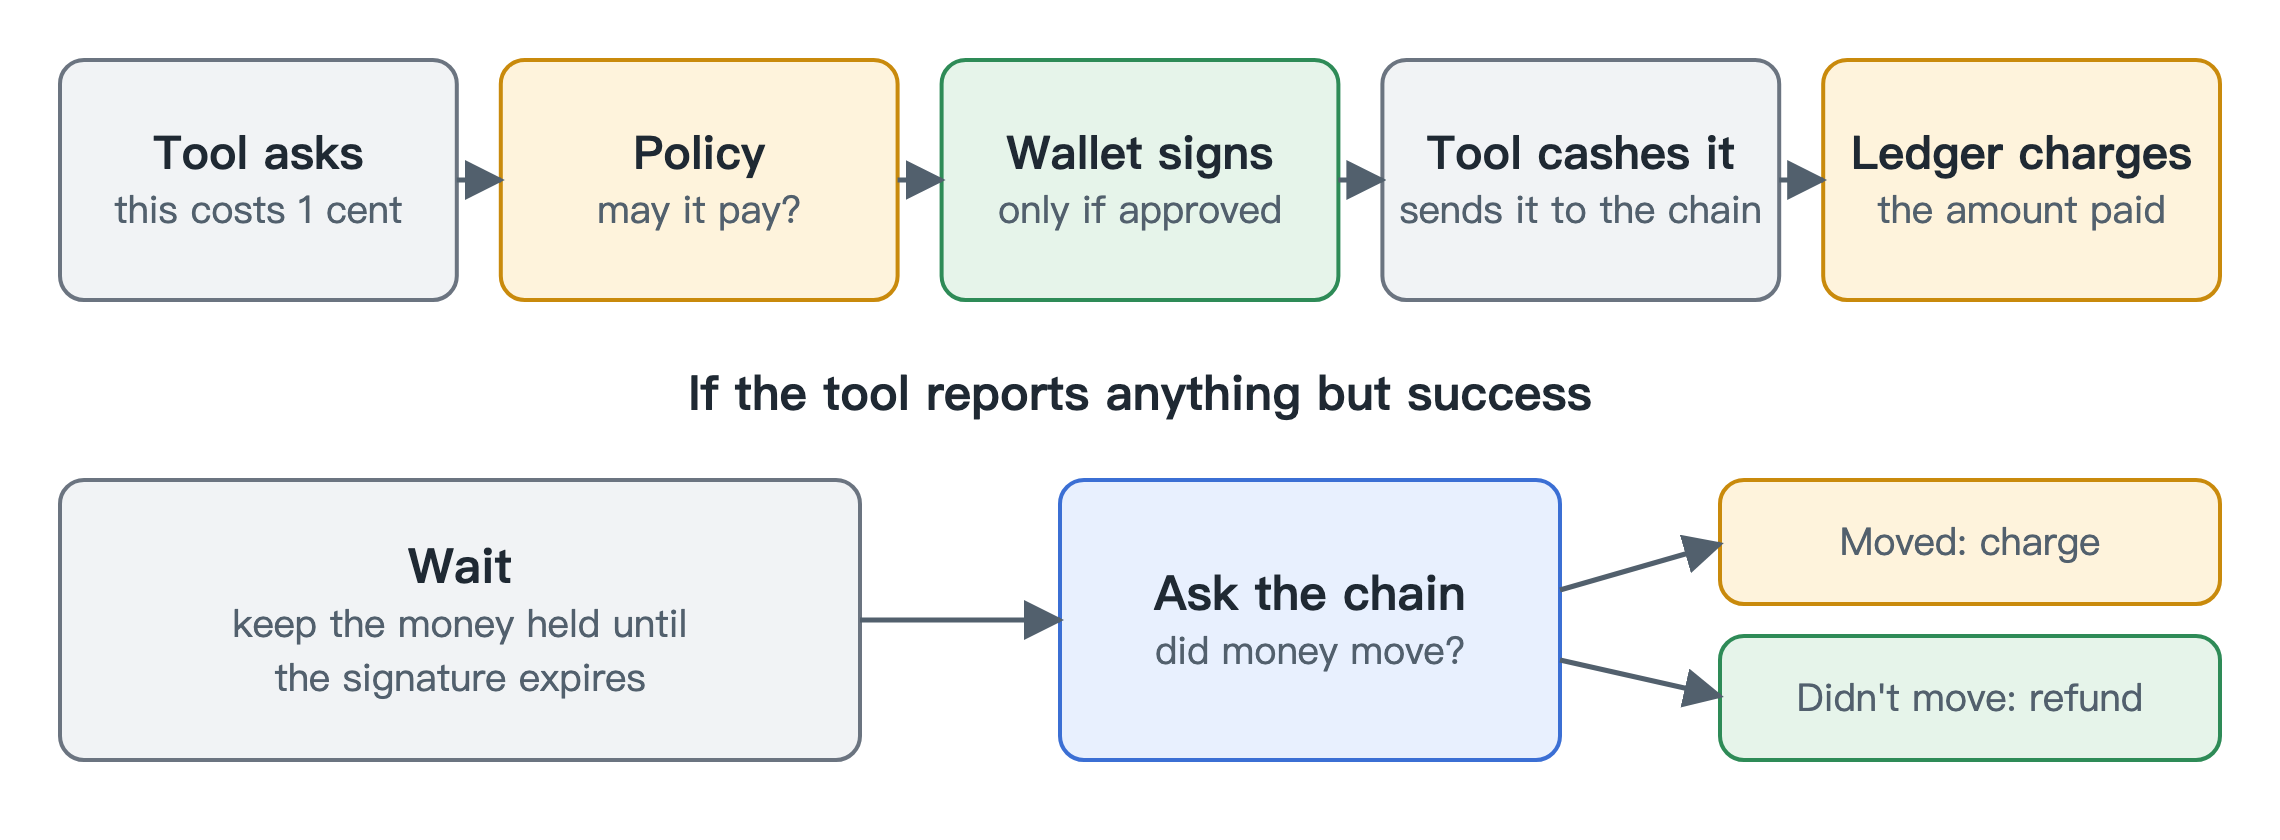
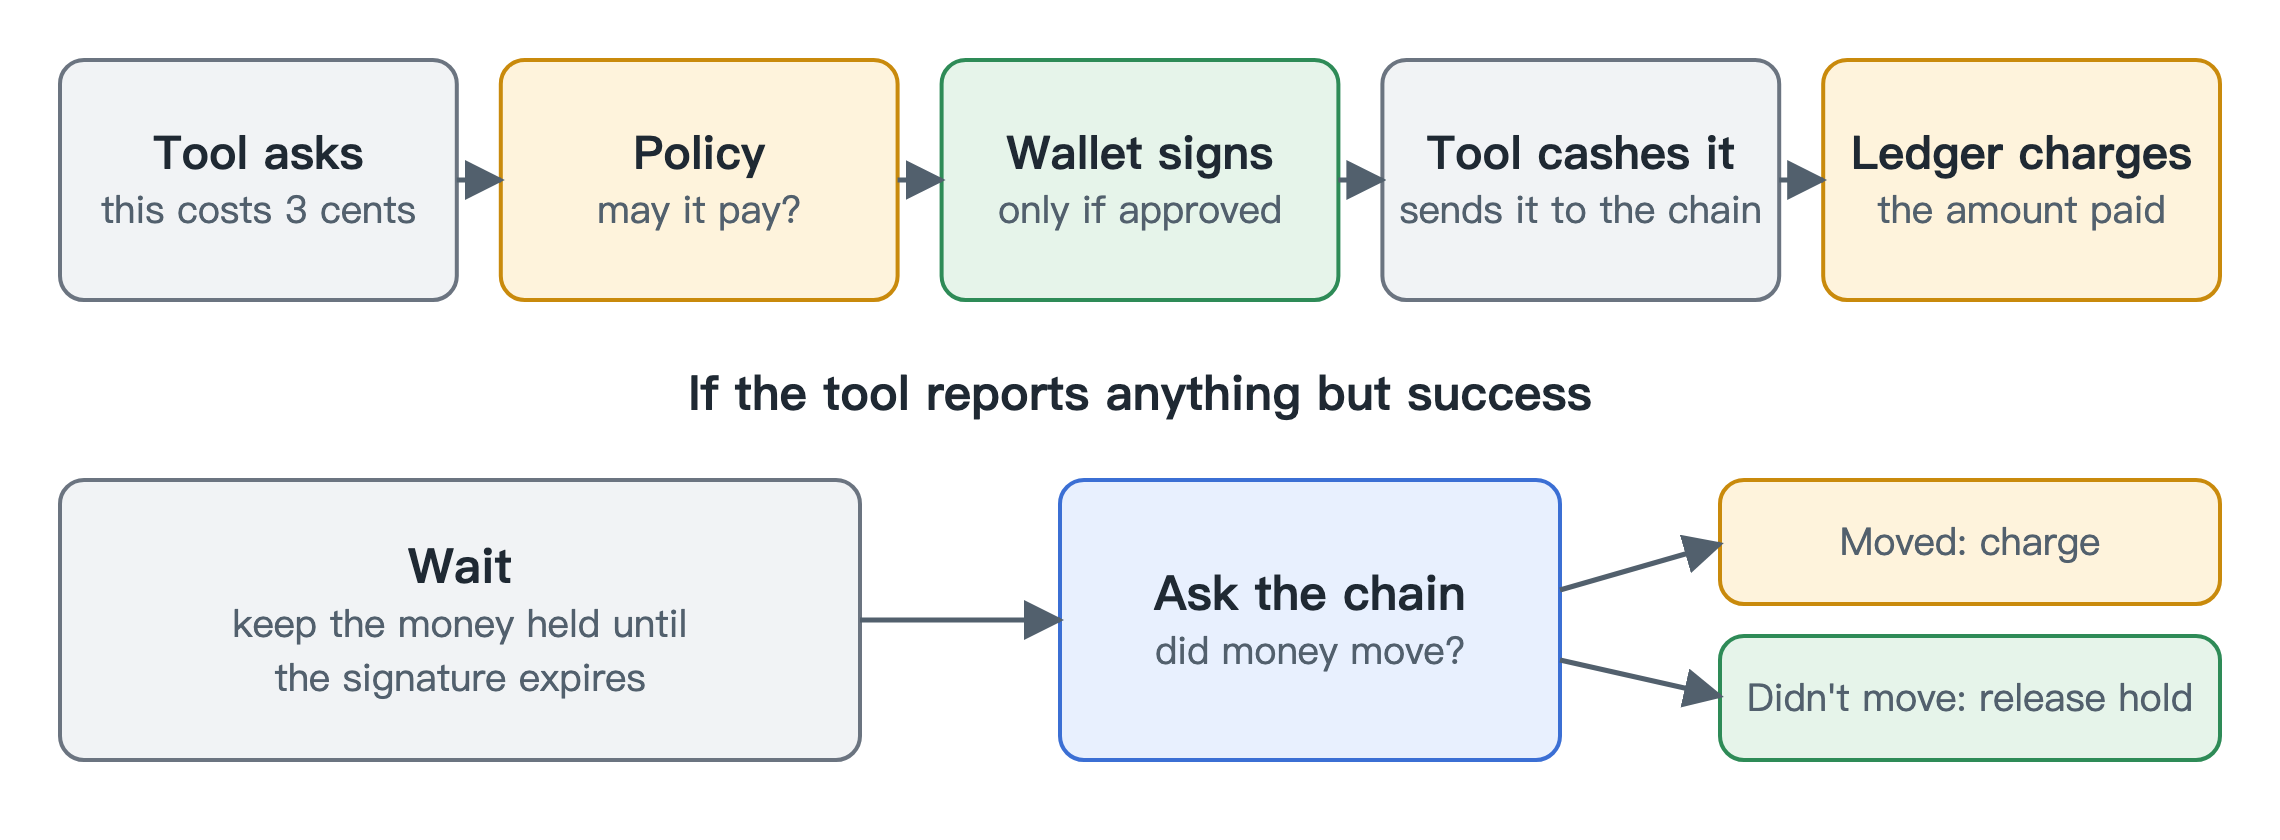
Explain payments from the basics (#17)
Add the background a reader needs, a step-by-step flow, and what charging
and releasing a hold actually mean. Say plainly that a reported success is
not checked against the chain. Replace the guessed one-cent price with a
few cents, in line with the reported x402 median.

Changed region(s): [[0.7474, 0.8048, 0.9654, 0.8667], [0.0311, 0.2167, 0.1868, 0.2786]]

diff --git a/docs/images/build.py b/docs/images/build.py
@@ -104,7 +104,7 @@ ZH = {
     'Clean: agent reads it': '干净：交给 Agent',
     'Match: blocked and logged': '命中：拦截并记录',
     'Tool asks': '工具要钱',
-    'this costs 1 cent': '这次收 1 美分',
+    'this costs 3 cents': '这次收 3 美分',
     'may it pay?': '可以付吗',
     'Wallet signs': '钱包签名',
     'only if approved': '批准后才签',
@@ -119,7 +119,7 @@ ZH = {
     'Ask the chain': '问区块链',
     'did money move?': '钱动了吗',
     'Moved: charge': '动了：扣费',
-    "Didn't move: refund": '没动：退款',
+    "Didn't move: release hold": '没动：解除冻结',
     'Run: write the weekly report': '一次 Run：写周报',
     'Model': '模型',
     'free': '免费',
@@ -290,13 +290,13 @@ def tools():
 
 def payments():
     d = D("payments", 1140, 420)
-    row(d, [("Tool asks", "this costs 1 cent", "gray"), ("Policy", "may it pay?", "amber"), ("Wallet signs", "only if approved", "green"),
+    row(d, [("Tool asks", "this costs 3 cents", "gray"), ("Policy", "may it pay?", "amber"), ("Wallet signs", "only if approved", "green"),
             ("Tool cashes it", "sends it to the chain", "gray"), ("Ledger charges", "the amount paid", "amber")], gap=22)
     d.text(570, 205, "If the tool reports anything but success", T, INK, True)
     d.box(30, 240, 400, 140, "Wait", "keep the money held until\nthe signature expires", "gray")
     d.box(530, 240, 250, 140, "Ask the chain", "did money move?", "blue")
     d.box(860, 240, 250, 62, "", "Moved: charge", "amber")
-    d.box(860, 318, 250, 62, "", "Didn't move: refund", "green")
+    d.box(860, 318, 250, 62, "", "Didn't move: release hold", "green")
     d.arrow(430, 310, 530, 310)
     d.arrow(780, 295, 860, 272)
     d.arrow(780, 330, 860, 348)

diff --git a/docs/zh/payments.md b/docs/zh/payments.md
@@ -2,22 +2,46 @@
 
 [English](../payments.md)
 
-有些工具按次收费。它们用 x402 回复“这次一美分”，x402 是基于 HTTP 402 Payment Required 状态码的开放标准。网关可以替 Agent 用 USDC 付款，Agent 自己不需要任何加密货币配置。
+有些工具按次收费，通常每次几美分。网关可以替 Agent 付款，Agent 自己不需要任何加密货币配置。普通工具完全不涉及这些，只有专门做了收费功能的工具才会参与。
 
-最重要的规则是：付款必须先通过策略，钱包才肯签名。这写进了代码结构，不只是一个别人记得加上的检查：没有批准凭证，签名这条路就走不通，而且凭证只能用一次，只对应一笔付款。钱包自己还有单笔上限，所以就算策略出错，也掏不空它。
+## 先了解几个概念
+
+- **USDC** 是一种数字美元，1 USDC 约等于 1 美元。
+- **区块链** 是一本公开账本，记录谁持有多少钱。任何人都能查，所以我们可以自己核实。
+- **钱包** 保管用来授权花钱的私钥。我们的钱包在网关里，Agent 碰不到。
+- **x402** 是一个网络收费的开放标准。工具用 HTTP 402 Payment Required 状态码报价，调用方带上付款凭证再请求一次。
+
+USDC 还支持用签名付款，这一点最容易让人意外。钱包不亲自转账，而是签一张“付给这个工具三美分”的凭证，就像开支票。工具自己或通过它用的服务，把支票拿到区块链上兑现，手续费也由工具方承担。
+
+## 一笔付款怎么走
+
+1. 网关调用工具，工具回复 402 和价格。
+2. 网关在账本里冻结 Agent 余额中的这笔钱。
+3. 策略做判定。不通过就解除冻结，什么都不签。
+4. 钱包签名，网关带上签名重发请求。
+5. 工具验证签名并兑现，USDC 从我们的钱包转给工具。
+6. 工具返回结果，账本把冻结转成扣费。
 
 ![付款依次经过策略、钱包和区块链。如果失败，由区块链说了算。](images/payments.png)
 
+最重要的规则是：付款必须先通过策略，钱包才肯签名。这写进了代码结构，不只是一个别人记得加上的检查：没有批准凭证，签名这条路就走不通，而且凭证只能用一次，只对应一笔付款。钱包自己还有单笔上限，所以就算策略出错，也掏不空它。
+
 ## 钱到底动没动，谁说了算
 
-付款有个很麻烦的边界情况。钱包一旦签名，工具手里就有了可以兑现的东西。它可能说“抱歉，失败了”，一分钟后又把它兑现，无论是不小心还是故意。
+付款有个很麻烦的边界情况。钱包一旦签名，在签名过期之前，工具手里都有一张能兑现的支票。它可能说“抱歉，失败了”，一分钟后又把它兑现，无论是不小心还是故意。
 
-所以签名之后，我们不再相信工具说什么，只相信区块链。工具报成功，我们就收钱。其他任何情况，钱都继续冻结，等签名过期后再查链：钱动了就收费，没动就退款。
+所以工具报失败不能算数。工具报成功，我们就收钱。其他任何情况，冻结都继续保留，等签名过期后再查区块链：钱动了就收钱，没动就解除冻结。
 
-代价是付款失败后，钱要过几分钟才回来。我们接受这一点，因为另一种做法是把已经离开的钱再退一次。
+收钱和解除冻结都只是我们账本里的记录，区块链上不用转回任何东西，因为解除冻结时钱根本没离开过。
+
+工具报成功我们就采信，因为工具谎称收到钱却没收，对它没有好处。万一发生了，Agent 会被多收，而对比账本和区块链的报表能查出来。
+
+等待的代价是付款失败后，钱要过几分钟才回来。我们接受这一点，因为另一种做法是把已经离开的钱再退一次。
 
 ## 需要知道的
 
-目前只能在测试网上运行，钱包会拒绝主网。
+目前只能在测试网上运行，测试网是练习用的网络，上面的代币没有真实价值。钱包会拒绝主网。
 
-所有 Agent 共用一个钱包。它们的预算是分开的，资金不是。账本里的余额和钱包里的 USDC 也是两回事，一笔付款两边都要够。
+Agent 的余额是我们账本里的数字，钱包里的 USDC 才是钱本身。两者是两回事，一笔付款两边都要够。
+
+所有 Agent 共用一个钱包。它们的预算是分开的，资金不是。

diff --git a/docs/payments.md b/docs/payments.md
@@ -2,7 +2,25 @@
 
 [中文](zh/payments.md)
 
-Sometimes a tool charges per use. It answers "that will be one cent" using x402, an open standard built on HTTP's old 402 Payment Required status. The gateway can pay it in USDC on the agent's behalf, so the agent doesn't need its own crypto setup.
+Sometimes a tool charges per use, typically a few cents a call. The gateway can pay it on the agent's behalf, so the agent needs no crypto setup of its own. Ordinary tools know nothing about this. Only tools built to charge take part.
+
+## The basics
+
+- **USDC** is a digital dollar. One USDC is meant to be worth one US dollar.
+- **A blockchain** is a public record of who holds what. Anyone can read it, which is why we can check it ourselves.
+- **A wallet** holds the private key that authorizes spending. Ours sits inside the gateway, away from the agents.
+- **x402** is an open standard for charging over the web. The tool answers with HTTP's 402 Payment Required status and a price. The caller repeats the request with payment attached.
+
+USDC also lets a wallet pay by signature, and this is the part that surprises people. The wallet doesn't send the money itself. It signs a note that says "pay this tool three cents", much like writing a check. The tool cashes the check on the blockchain, either itself or through a service it uses, and covers the network fee.
+
+## One payment, step by step
+
+1. The gateway calls the tool. The tool answers with 402 and a price.
+2. The gateway holds that amount from the agent's balance in the ledger.
+3. Policy decides. If the answer is no, the hold is released and nothing is signed.
+4. The wallet signs, and the gateway repeats the request with the signature attached.
+5. The tool checks the signature and cashes it. USDC moves from our wallet to the tool.
+6. The tool returns its result, and the ledger turns the hold into a charge.
 
 ![A payment goes through policy, then the wallet, then the chain. If it fails, the chain decides.](images/payments.png)
 
@@ -10,14 +28,20 @@ The rule that matters most is that a payment has to pass policy before the walle
 
 ## Who decides whether the money moved
 
-Payments have a nasty edge case. Once the wallet signs, the tool holds something it can cash. It might say "sorry, that failed" and cash it anyway a minute later, by accident or on purpose.
+Payments have a nasty edge case. Once the wallet signs, the tool holds a check it can cash until the signature expires. It might say "sorry, that failed" and cash it anyway a minute later, by accident or on purpose.
 
-So after signing we stop believing what the tool says and only believe the blockchain. If the tool reports success, we charge. For anything else, the money stays held until the signature has expired, and then we check the chain. If the money moved, we charge. If it didn't, we refund.
+So a failure report from the tool proves nothing. If the tool reports success, we charge. For anything else, the hold stays until the signature has expired, and then we check the blockchain. If the money moved, we charge. If it didn't, we release the hold.
 
-The cost of this is that a failed payment takes a few minutes to come back. We accept that, because the alternative is refunding money that has already left.
+Charging and releasing are both entries in our ledger. Nothing is sent back on the blockchain, because in the release case the money never left.
+
+We take a reported success at its word because a tool gains nothing by claiming a payment it didn't collect. If one did, the agent would be overcharged, and the report that compares the ledger with the blockchain would show it.
+
+The cost of waiting is that a failed payment takes a few minutes to come back. We accept that, because the alternative is giving back money that has already left.
 
 ## Good to know
 
-This runs on testnets only. The wallet refuses to work on mainnet.
+This runs on testnets only, practice networks where the tokens have no real value. The wallet refuses to work on mainnet.
 
-All agents share one wallet. Their budgets are separate, but the funds aren't. The balance in the ledger and the USDC in the wallet are also two different things, and a payment needs both.
+An agent's balance is a number in our ledger. The USDC in the wallet is the money itself. These are two different things, and a payment needs both.
+
+All agents share one wallet. Their budgets are separate, but the funds aren't.
